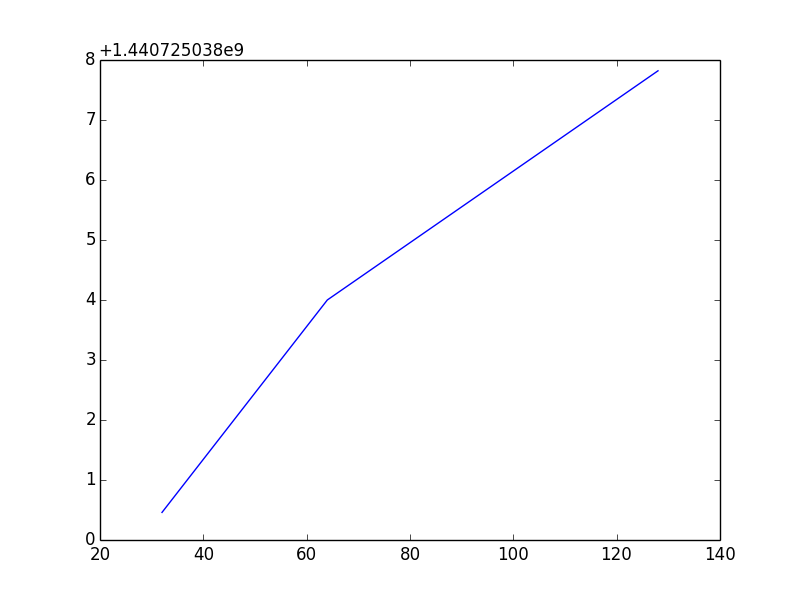
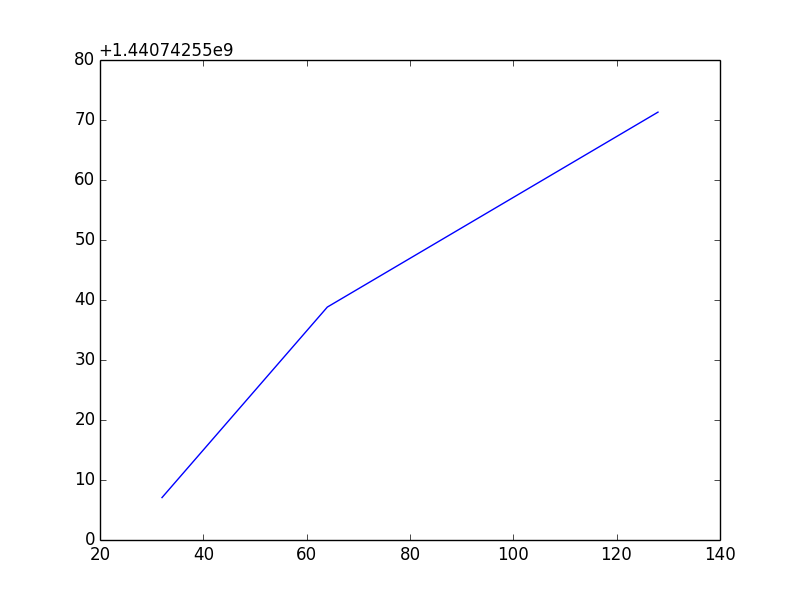
bug in NF+AEVB in scaling tests

diff --git a/experiments/8-scaling-tests/1-flow/main.py b/experiments/8-scaling-tests/1-flow/main.py
@@ -79,6 +79,9 @@ def time_and_acc(latent_dimension):
 
         print "Iter", iter, "loglik:", np.mean(loglikes).value, \
             "entropy:", np.mean(entropy_estimates).value, "marg. like:", np.mean(entropy_estimates + loglikes).value
+        lastVal = np.mean(entropy_estimates + loglikes).value
+        with open('lastVal.pkl', 'w') as f:
+            pickle.dump(lastVal, f, 1)
         return np.mean(entropy_estimates + loglikes)
 
     lb_grad = grad(get_batch_lower_bound)
@@ -98,11 +101,14 @@ def time_and_acc(latent_dimension):
     final_params = adam(lb_grad, combined_params, num_training_iters, callback=callback)
 
     finish_time = time.time()
-    #Broken and very mysterious:
-    lb_val_grad = value_and_grad(get_batch_lower_bound)
-    lb_est = lb_val_grad(final_params,num_training_iters+2)
-    print lb_est
-    lb_est = lb_est[0]
+    # #Broken and very mysterious:
+    # lb_val_grad = value_and_grad(get_batch_lower_bound)
+    # lb_est = lb_val_grad(final_params,num_training_iters+2)
+    # print lb_est
+    # lb_est = lb_est[0]
+    with open('lastVal.pkl') as f:
+        lb_est = pickle.load(f)
+    print 'lb_est is', lb_est
     print "Total training time:", finish_time - start_time
     return finish_time, lb_est
 
